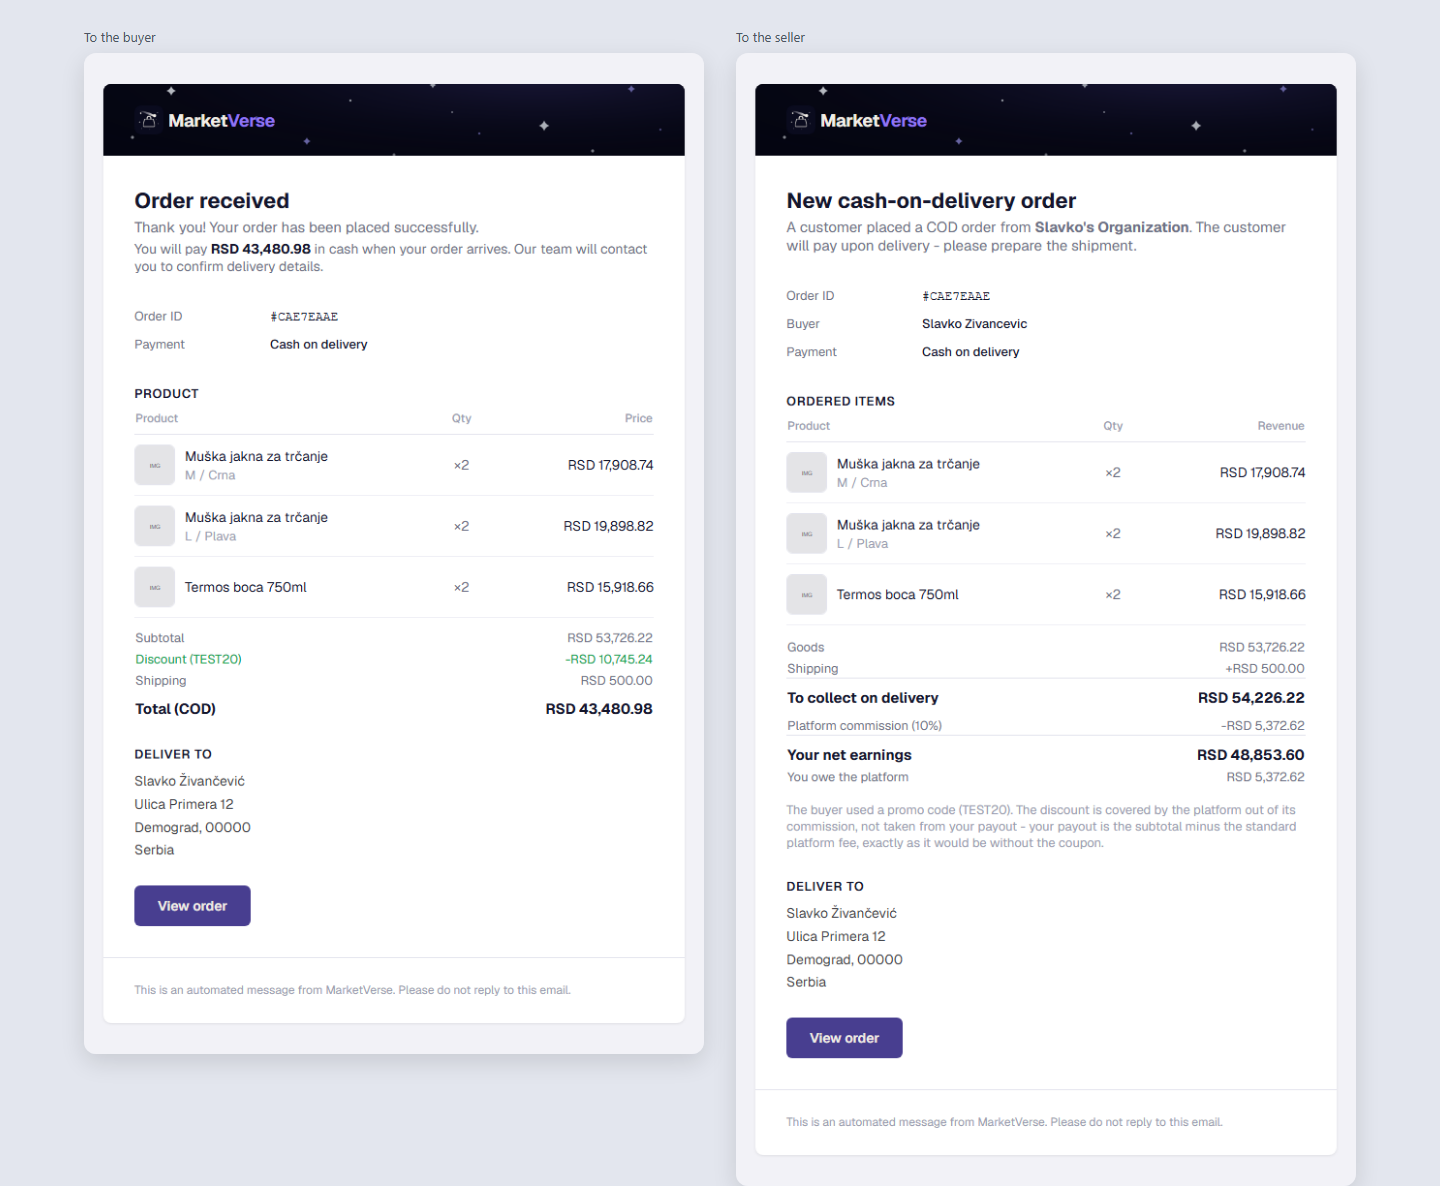
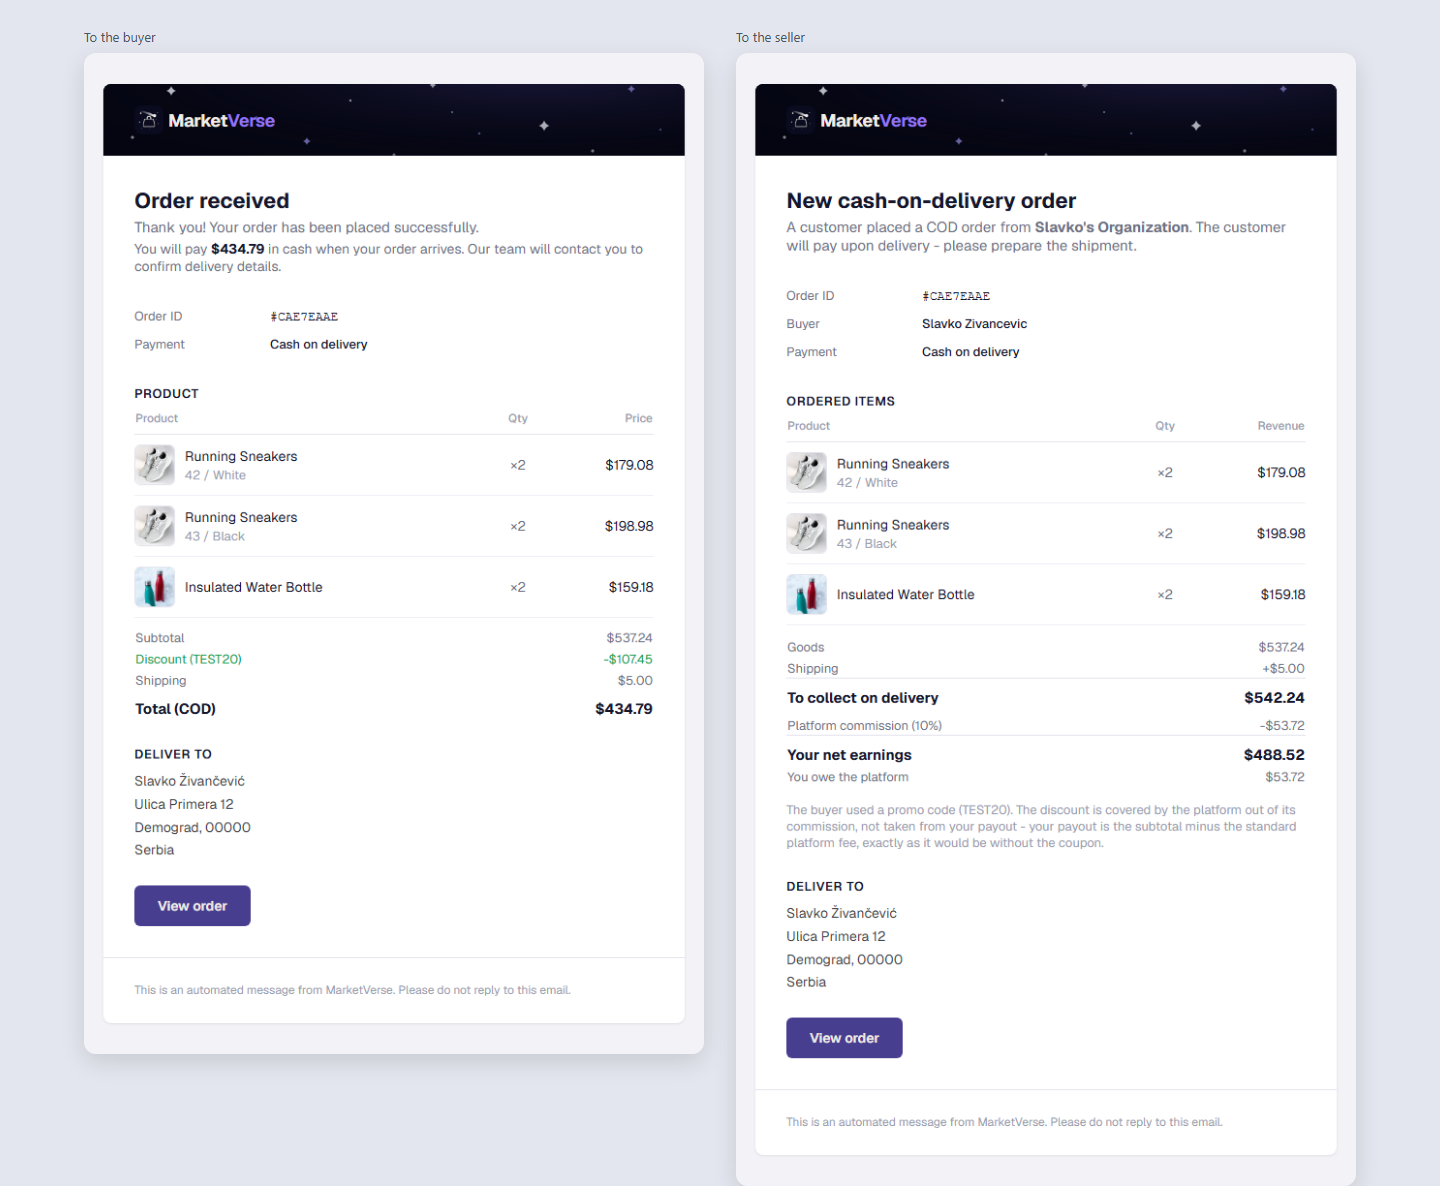
show every price in dollars except the Serbian i18n screenshot

diff --git a/index.html b/index.html
@@ -322,7 +322,7 @@
         </figure>
         <figure class="shot">
           <img src="screenshots/09c-price-by-country.png" alt="Listing priced for a buyer in Germany" loading="lazy" />
-          <figcaption>Storefront - the card is priced for the buyer's country (from CloudFront, overridable in preferences)</figcaption>
+          <figcaption>Storefront - priced for a buyer in Germany (country from CloudFront, overridable in preferences); the market sets the price, the currency only how it is shown</figcaption>
         </figure>
         <figure class="shot">
           <img src="screenshots/09b-price-markets.png" alt="Admin price markets" loading="lazy" />
